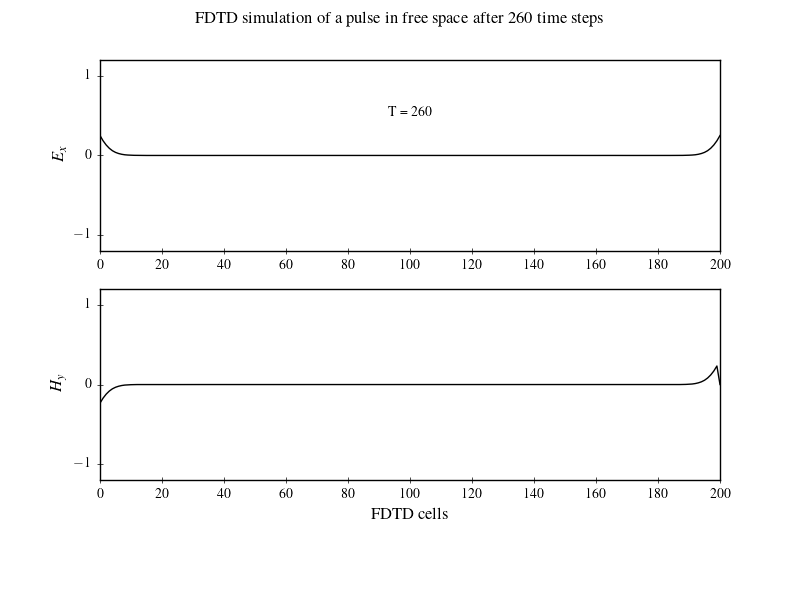
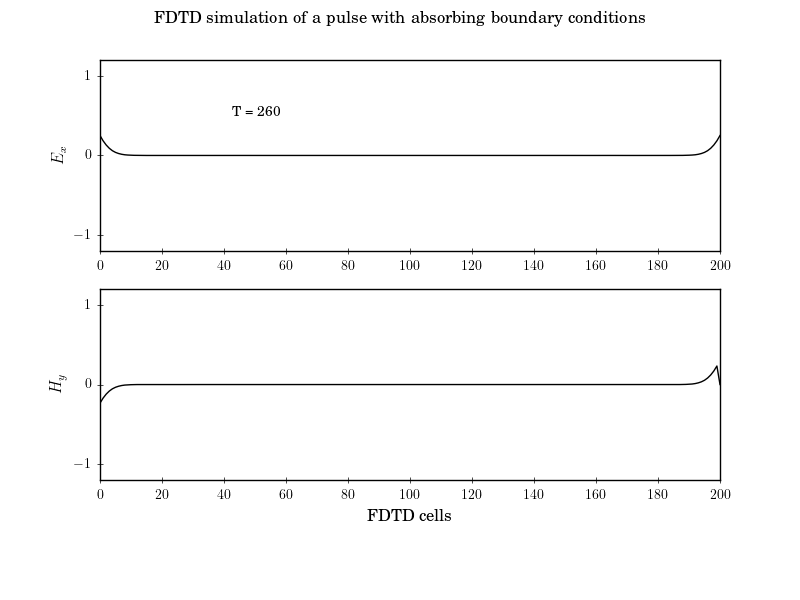
simulation of a pulse with absorbing boundary conditions

diff --git a/fd1d/program/fd1d_1_2.py b/fd1d/program/fd1d_1_2.py
@@ -17,9 +17,9 @@ plt.style.use("../pyplot.mplstyle")
 
 def visualize(ns: int, nx: int, ex: np.ndarray, hy: np.ndarray) -> None:
 	fig, (ax1, ax2) = plt.subplots(2, sharex=False, gridspec_kw={"hspace": 0.2})
-	fig.suptitle(f"FDTD simulation of a pulse in free space after {ns} time steps")
+	fig.suptitle(r"FDTD simulation of a pulse with absorbing boundary conditions")
 	ax1.plot(ex, "k", lw=1)
-	ax1.text(nx//2, 0.5, f"T = {ns}", horizontalalignment="center")
+	ax1.text(nx/4, 0.5, f"T = {ns}", horizontalalignment="center")
 	ax1.set(xlim=(0, nx-1), ylim=(-1.2, 1.2), ylabel=r"$E_x$")
 	ax1.set(xticks=range(0, nx+1, round(nx//10,-1)), yticks=np.arange(-1, 1.2, 1))
 	ax2.plot(hy, "k", lw=1)
@@ -33,17 +33,13 @@ def gaussian(t: int, t0: int, sigma: float) -> float:
 	return np.exp(-0.5 * ((t - t0)/sigma)**2)
 
 
-def field(t:int, nx:int, ex:np.ndarray, hy:np.ndarray, lb:np.ndarray, hb:np.ndarray):
-
+def field(t: int, nx: int, ex: np.ndarray, hy: np.ndarray, lb: np.ndarray, hb: np.ndarray):
 	# calculate the Hy field
 	hy[0:nx-1] = hy[0:nx-1] + 0.5 * (ex[0:nx-1] - ex[1:nx])
-
 	# calculate the Ex field
 	ex[1:nx] = ex[1:nx] + 0.5 * (hy[0:nx-1] - hy[1:nx])
-
 	# put a Gaussian pulse in the middle
 	ex[nx//2] = gaussian(t, 40, 12)
-
 	# absorbing boundary conditions
 	ex[0], lb[0], lb[1] = lb[0], lb[1], ex[1]
 	ex[nx-1], hb[0], hb[1] = hb[0], hb[1], ex[nx-2]
